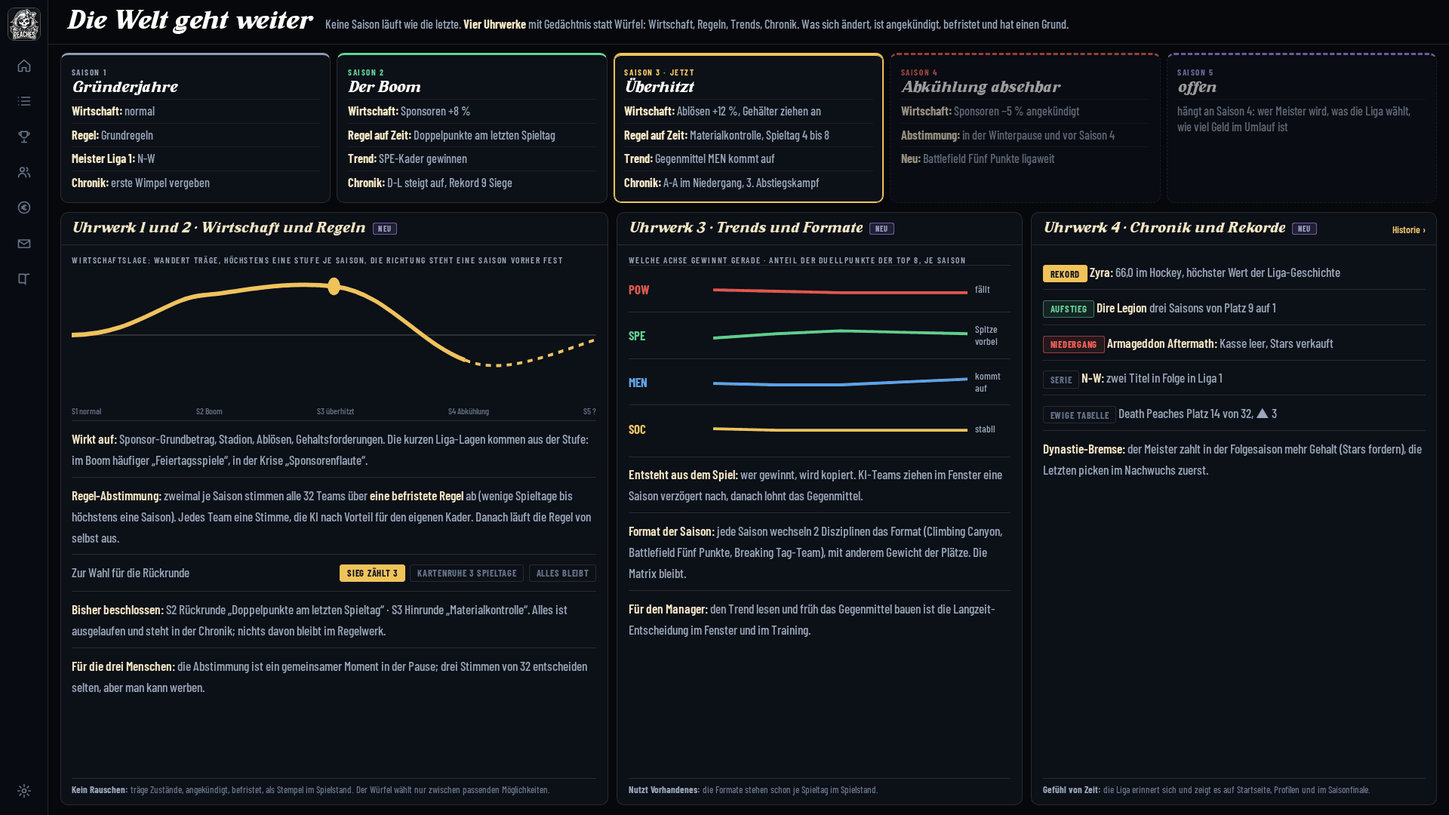
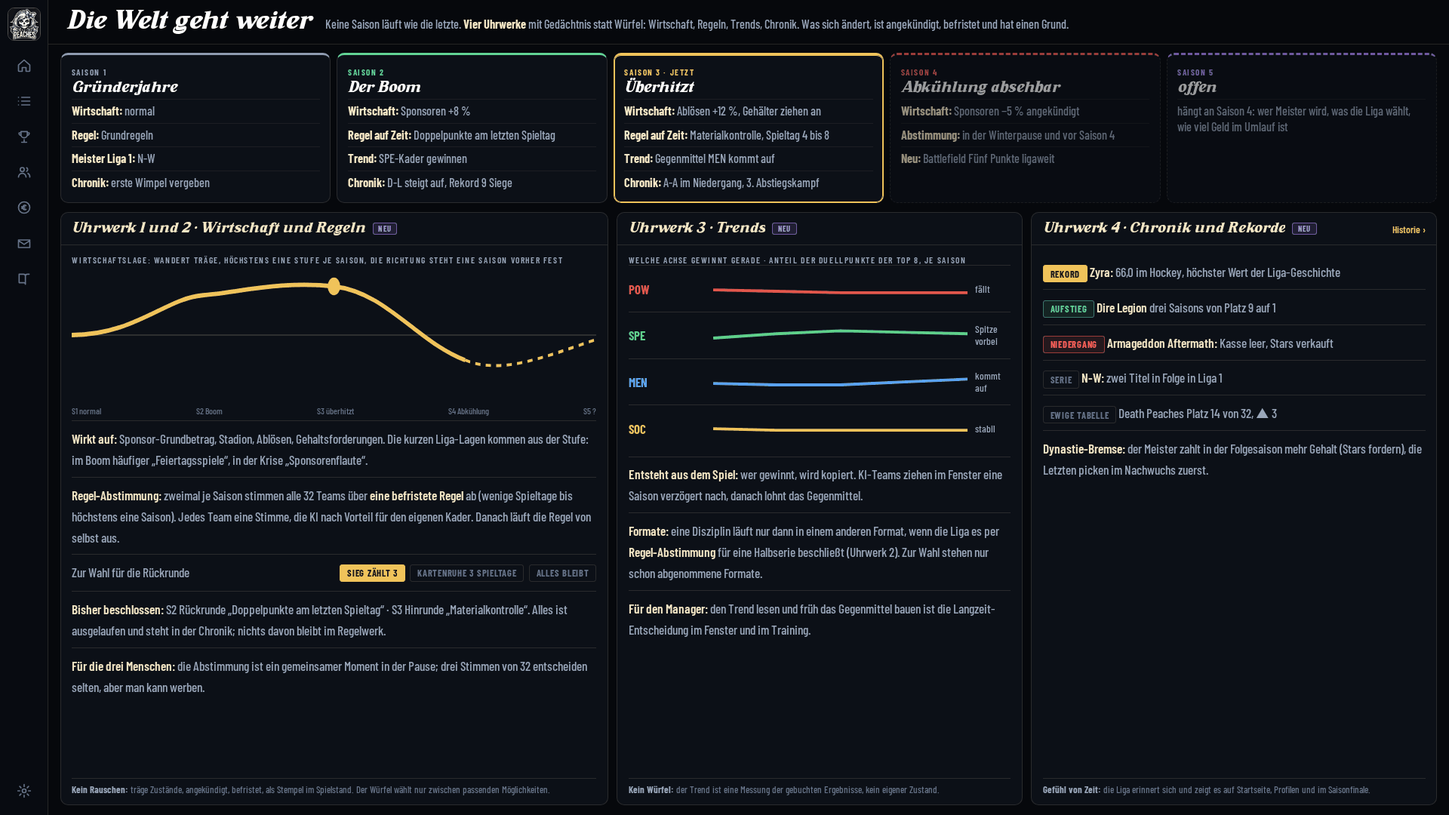
Rahmenkonzept Runde 5: Kabine und Moral, Rahmen-Uebersicht nachgezogen, Klicks geprueft (22.11.)
Claude-Session: https://claude.ai/code/session_01UYLNtXkprKr1XK4c3X2xQq

Changed region(s): [[0.4375, 0.6417, 0.6875, 0.7333], [0.4375, 0.9472, 0.625, 0.9778], [0.5312, 0.275, 0.625, 0.3056]]

diff --git a/public/mockups/zwischen-den-spieltagen-22-11.html b/public/mockups/zwischen-den-spieltagen-22-11.html
@@ -369,6 +369,21 @@ main{display:grid;grid-template-rows:auto minmax(0,1fr);min-width:0;min-height:0
 .absch div em{font-style:normal;font-size:.68rem;letter-spacing:.12em;text-transform:uppercase;font-weight:700;color:var(--gold);display:block}
 .ueb{display:grid;grid-template-columns:6.6rem repeat(3,minmax(0,1fr));gap:.3rem .5rem;font-size:.86rem;color:var(--leise);line-height:1.2;flex:1;min-height:0;grid-auto-rows:minmax(0,1fr);align-items:center}
 .ueb .kh{font-size:.68rem;letter-spacing:.1em;text-transform:uppercase;font-weight:700;color:var(--gold)} .ueb b{color:var(--creme)}
+
+/* ============ RUNDE 5: KABINE ============ */
+.kb{display:grid;grid-template-columns:minmax(0,1.25fr) minmax(0,1.1fr) 29rem;gap:.72rem;padding:.7rem 1rem .8rem;min-height:0}
+.mz2{display:grid;grid-template-columns:2rem 8.6rem 4.4rem minmax(0,1fr) 3.6rem;gap:.6rem;align-items:center;flex:1;min-height:0;border-top:1px solid rgba(244,230,196,.07);font-size:.94rem;color:var(--leise)}
+.mz2.kopf{flex:none;border-top:0;font-size:.66rem;letter-spacing:.1em;text-transform:uppercase;color:var(--stumm);font-weight:700}
+.mz2 b{font:400 1.05rem/1 var(--haus);color:#fff;white-space:nowrap;overflow:hidden;text-overflow:ellipsis} .mz2 .mo{display:flex;align-items:center;gap:.35rem;font-weight:700;font-size:1.15rem}
+.mz2 svg.gs{width:1.5rem;height:1.5rem;flex:none} .mz2 svg.sp{width:100%;height:1.7rem} .mz2 .gr{display:block;font-size:.78rem;color:var(--stumm);white-space:nowrap;overflow:hidden;text-overflow:ellipsis}
+.mz2 .wi{text-align:right;font-weight:700;font-variant-numeric:tabular-nums}
+.paar{display:flex;align-items:center;gap:.5rem;padding:.4rem 0;border-top:1px solid var(--linie);font-size:.94rem;color:var(--leise)} .paar:first-of-type{border-top:0} .paar b{color:var(--creme)} .paar .po{margin-right:-.6rem} .paar .po+.po{margin-right:.2rem}
+.ere{position:relative;flex:none;padding:.7rem .9rem;isolation:isolate;border-bottom:1px solid var(--linie)}
+.ere::before{content:"";position:absolute;inset:0;z-index:-1;background:linear-gradient(90deg,rgba(243,181,74,.2),transparent 75%)}
+.ere h3{margin:.1rem 0 .15rem;font:400 1.6rem/1 var(--haus);color:#fff} .ere p{font-size:.98rem;color:var(--leise);line-height:1.28} .ere p b{color:var(--creme)}
+.ere .duo{position:absolute;right:.9rem;top:.7rem;display:flex} .ere .duo img{width:3.4rem;height:3.4rem;border-radius:50%;object-fit:cover;object-position:center 15%;border:2px solid var(--acht);margin-left:-.8rem}
+.stimm{display:flex;align-items:center;gap:.8rem;margin-bottom:.4rem} .stimm strong{font-size:3rem;line-height:1;color:var(--creme)} .stimm svg{width:3.4rem;height:3.4rem} .stimm small{font-size:.86rem;color:var(--leise);line-height:1.25}
+.rate{display:grid;grid-template-columns:minmax(0,1fr) auto;gap:.1rem .6rem;font-size:.92rem;color:var(--leise);line-height:1.5} .rate b{text-align:right;font-variant-numeric:tabular-nums}
 </style>
 </head>
 <body>
@@ -387,7 +402,7 @@ function lg(c,k){return '<img class="'+(k||"lg")+'" src="../team-logos/'+c+'.jpg
 function po(s){return '<img class="po" src="../portraits/'+s+'.jpg" alt="">'}
 function kul(d,b){return "../sprites/kulissen/"+d+"/"+b+".jpg"}
 $("rail").innerHTML='<span class="logo"><img src="../team-logos/D-P.jpg" alt=""></span>'+[["haus",A==="woche"],["liste"],["pokal",A==="liga"||A==="lage"],["leute",A==="ausruestung"],["geld"],["post"],["buch",A==="rahmen"]].map(function(r){return '<a class="'+(r[1]?"an":"")+'">'+ic(I[r[0]])+'</a>'}).join("")+'<span class="luecke"></span><a>'+ic(I.zahn)+'</a>';
-$("demoz").innerHTML=[["rahmen","Rahmen"],["nachspiel","Nach dem Spiel"],["woche","Die Woche"],["ausruestung","Ausrüstung"],["kiste","Kiste öffnen"],["zuruf","Zuruf im Spiel"],["lage","Liga-Lage"],["verein","Verein"],["welt","Welt"],["aera","Kader und Ära"],["liga","Ligaformat"]].map(function(z){return '<a class="'+(z[0]===A?"an":"")+'" href="?ansicht='+z[0]+'">'+z[1]+'</a>'}).join("");
+$("demoz").innerHTML=[["rahmen","Rahmen"],["nachspiel","Nach dem Spiel"],["woche","Die Woche"],["ausruestung","Ausrüstung"],["kiste","Kiste öffnen"],["zuruf","Zuruf im Spiel"],["lage","Liga-Lage"],["kabine","Kabine"],["verein","Verein"],["welt","Welt"],["aera","Kader und Ära"],["liga","Ligaformat"]].map(function(z){return '<a class="'+(z[0]===A?"an":"")+'" href="?ansicht='+z[0]+'">'+z[1]+'</a>'}).join("");
 function hero(o){return '<header class="hero"><div class="kul"><i style="background-image:url('+o.kul[0]+')"></i><i style="background-image:url('+o.kul[1]+')"></i></div><div class="hk"><span class="crest">'+lg("D-P","")+'</span><div><em>'+o.kick+'</em><h1>'+o.titel+'</h1><span class="lage">'+o.lage+'</span></div></div><div class="kpis">'+o.kpi.map(function(k){return '<div class="kpi"><strong class="t">'+k[0]+'</strong><small>'+k[1]+'</small></div>'}).join("")+'</div><div class="cta"><a class="btn haupt">'+o.cta[0]+' '+ic(I.pfeil)+'</a><small>'+o.cta[1]+'</small></div></header>'}
 function pan(st,tit,inh,re,alt){return '<section class="pan" style="'+st+'"><div class="pk"><h2>'+tit+'</h2>'+(alt?"":'<span class="neu">neu</span>')+'<span class="sp"></span>'+(re||"")+'</div><div class="pb">'+inh+'</div></section>'}
 var SF=["var(--s0)","var(--s1)","var(--s2)","var(--s3)"],SN=["Standard","Selten","Episch","Legendär"];
@@ -396,19 +411,19 @@ function hb(pz,text){var f=pz>50?"var(--gut)":pz>25?"var(--acht)":"var(--warn)";
 
 /* ======================= RAHMEN ======================= */
 function rahmen(){
- var S=[["#62d394","10 bis 15 Minuten · 20-mal je Saison","Der Spieltag","Wie gewinne ich heute?","Platz, Einsatzstufe, zwei Formkarten, Captain","Arena, Ergebnis 7 : 4, <b>Deine Entscheidungen</b>","Punkte, PP, <b>Ruhm</b>","stark gerechnet, Rückmeldung fehlt"],
-  ["#45B0C9","5 Minuten · 19-mal je Saison","Die Woche","Was mache ich aus dem, was passiert ist?","<b>ein Zug</b>: Karte, Ausrüstung, Reaktion auf die Liga-Lage; dazu Training, Scouting","Kader-Zustand, Kasse je Spieltag, <b>Liga-Lage</b>","frische Kräfte, <b>Beute</b>, Vorteil am nächsten Spieltag","heute eine Prüfliste, kein Ort"],
+ var S=[["#62d394","10 bis 15 Minuten · 20-mal je Saison","Der Spieltag","Wie gewinne ich heute?","Platz, Einsatzstufe, zwei Formkarten, Captain, <b>Spielplan mit Zuruf</b>","Arena, <b>die Sendung</b>, <b>Deine Entscheidungen</b>","Punkte, PP, <b>Ruhm</b>","stark gerechnet, Rückmeldung fehlt"],
+  ["#45B0C9","5 Minuten · 19-mal je Saison","Die Woche","Was mache ich aus dem, was passiert ist?","<b>ein Zug</b>: Karte, Ausrüstung, Antwort auf Liga-Lage und <b>Kabine</b>; dazu Training, Scouting","Kader-Zustand, Kasse je Spieltag, <b>Liga-Lage</b>","frische Kräfte, <b>Beute</b>, Vorteil am nächsten Spieltag","heute eine Prüfliste, kein Ort"],
   ["#f0c35a","20 Spieltage in zwei Hälften","Die Saison","Erreiche ich mein Ziel?","Kartenhaushalt, Rotation bis zur Pause, Geld gegen Vorstand und Sponsor","<b>Rennen</b>, <b>Halbzeitbericht</b>, Vorstand","Aufstieg, Titel, Prämien, <b>Wimpel</b>, <b>Finale als Sendung</b>","Bausteine da, Momente fehlen"],
-  ["#ff8f6b","mehrere Saisons","Die Ära","Was für ein Verein werde ich?","Kaderprofil, Gebäude, Verträge, <b>Nachwuchs</b>, <b>Spielweise</b>","Historie, <b>Rekorde</b>, <b>Rivalitäten</b>","<b>Legenden</b>, Trophäenschrank, eine Geschichte","ab Saison 3 erstarrt die Liga"]];
+  ["#ff8f6b","mehrere Saisons","Die Ära","Was für ein Verein werde ich?","Kaderprofil, Gebäude, Verträge, <b>Potential mit Grund</b>, <b>Nachwuchs</b>","Historie, <b>Rekorde</b>, <b>Rivalitäten</b>","<b>Legenden</b>, Trophäenschrank, eine Geschichte","ab Saison 3 erstarrt die Liga"]];
  var schl=S.map(function(s,i){return '<div class="schl" style="--f:'+s[0]+'"><em>Schleife '+(i+1)+' · '+s[1]+'</em><h3>'+s[2]+'</h3><div class="fr">„'+s[3]+'“</div><dl><dt>Entscheiden</dt><dd>'+s[4]+'</dd><dt>Erfahren</dt><dd>'+s[5]+'</dd><dt>Bekommen</dt><dd>'+s[6]+'</dd><dt>Heute</dt><dd style="color:var(--acht)">'+s[7]+'</dd></dl></div>'}).join("");
- var P=[["var(--spe)","Säule 1","Kader",85,"Wen habe ich, und was wird aus ihm?","<b>Trägt:</b> Draft, Fenster, Training mit Weg, Scouting-Nebel, Verträge, Belastung.","<b>Fehlt:</b> Zugang und Abgang über die Saisons. Ohne Alter nähert sich jeder seiner Decke.",[[5,"Nachwuchs und Abgang","L"],[3,"Ausrüstung am Spieler","L"]]],
-  ["var(--pow)","Säule 2","Spieltag",70,"Wie setze ich ihn ein?","<b>Trägt:</b> Einsatzliste, Formkarten als Haushalt, Einsatzstufe, Captain, 20 verschiedene Disziplinen.","<b>Fehlt:</b> die Rückmeldung nach dem Spiel und eine eigene Handschrift. „Optimieren“ findet heute die Antwort.",[[1,"Deine Entscheidungen","M"],[4,"Spielweisen","L"],[4,"Aktionskarten","M"]]],
-  ["var(--soc)","Säule 3","Verein",65,"Womit bezahle ich das?","<b>Trägt:</b> zwei Töpfe, Vorstand mit Freigabe, Sponsor, Gebäude, Finanzen je Spieltag.","<b>Fehlt:</b> Geldentscheidungen in der Saison mit sportlicher Folge. Gebäude haben keinen spürbaren Zweck.",[[2,"Die Woche als Ort","M"],[3,"Ruhm und Kisten","M"],[1,"Ziele: auf Kurs, gefährdet","S"]]],
-  ["var(--men)","Säule 4","Welt",25,"Was passiert um mich herum?","<b>Trägt:</b> zwei Ligen, Auf- und Abstieg, Pause nach Spieltag 10.","<b>Fehlt:</b> fast alles. Jede Saison läuft gleich, die Liga reagiert nicht, Höhepunkte sind Buchungsknöpfe.",[[1,"Rennen und Halbzeitbericht","M"],[2,"Liga-Lage (für alle 32)","M"],[2,"Wimpel und Rekorde","S"],[5,"Saisonfinale als Sendung","M"]]],
+ var P=[["var(--spe)","Säule 1","Kader",85,"Wen habe ich, und was wird aus ihm?","<b>Trägt:</b> Draft, Fenster, Training mit Weg, Scouting-Nebel, Verträge, Belastung.","<b>Fehlt:</b> Entwicklung ist nicht geeicht und nicht sichtbar, die Liga legt im Schnitt zu. Zugang und Abgang kommen später.",[[2,"Potential, das wandert (B15)","M"],[3,"Ausrüstung hebt Attribute","L"],[5,"Nachwuchs und Abgang","L"]]],
+  ["var(--pow)","Säule 2","Spieltag",70,"Wie setze ich ihn ein?","<b>Trägt:</b> Einsatzliste, Formkarten als Haushalt, Einsatzstufe, Captain, 20 verschiedene Disziplinen.","<b>Fehlt:</b> die Rückmeldung nach dem Spiel und eine eigene Handschrift. „Optimieren“ findet heute die Antwort.",[[1,"Sendung und Entscheidungen","M"],[4,"Zuruf im Spiel (B16)","L"],[4,"Aktionskarten","M"]]],
+  ["var(--soc)","Säule 3","Verein",65,"Womit bezahle ich das?","<b>Trägt:</b> zwei Töpfe, Vorstand mit Freigabe, Sponsor, Gebäude, Finanzen je Spieltag.","<b>Fehlt:</b> Geldentscheidungen in der Saison mit sportlicher Folge. Gebäude haben keinen spürbaren Zweck.",[[2,"Die Woche als Ort","M"],[2,"Kabine und Moral (B18)","M"],[3,"Ruhm, Kisten, Händler","M"]]],
+  ["var(--men)","Säule 4","Welt",25,"Was passiert um mich herum?","<b>Trägt:</b> zwei Ligen, Auf- und Abstieg, Pause nach Spieltag 10.","<b>Fehlt:</b> fast alles. Jede Saison läuft gleich, die Liga reagiert nicht, Höhepunkte sind Buchungsknöpfe.",[[1,"Rennen und Halbzeitbericht","M"],[2,"Liga-Lage (für alle 32)","M"],[3,"Regel-Abstimmung auf Zeit (B17)","M"],[5,"Chronik, Wimpel, Saisonfinale","M"]]],
   ["var(--neu)","Säule 5","Rivalen",15,"Gegen wen, und mit wem?","<b>Trägt:</b> Delegation, drei Logins, Beziehungen zwischen Teams als Daten (<span class='t'>lib/rivalries</span>).","<b>Fehlt:</b> Vergleich, Derby, gemeinsame Momente. Drei Menschen spielen nebeneinander.",[[1,"Manager-Leiste und Derby","S"],[2,"Rivalitäten und Erzfeind","S"],[5,"Legenden","S"]]]];
  var sae=P.map(function(p){return '<div class="saeu" style="--f:'+p[0]+'"><header><small>'+p[1]+'</small><h3>'+p[2]+'</h3><div class="st"><span>heute</span><span class="balk"><i style="width:'+p[3]+'%;background:'+p[0]+'"></i></span><span class="t">'+p[3]+' %</span></div></header><div class="in"><p style="color:var(--creme);font-weight:600">„'+p[4]+'“</p><p>'+p[5]+'</p><p>'+p[6]+'</p><div class="bs"><span class="gk">Bausteine · Welle · Aufwand</span>'+p[7].map(function(b){return '<div class="bst w'+b[0]+'"><i>W'+b[0]+'</i><span>'+b[1]+'</span><small>'+b[2]+'</small></div>'}).join("")+'</div></div></div>'}).join("");
- var W=[["Welle 1","Verstehen und vergleichen","<b>Deine Entscheidungen, Rennen, Halbzeit, Manager-Leiste, Derby.</b> Reine Anzeige, kein Risiko. Macht alles Vorhandene spürbar."],["Welle 2","Die Woche und die Welt","<b>Die Zwischenphase wird ein Ort, die Liga-Lage trifft alle 32.</b> Dazu Rivalitäten und Wimpel. Keine Wertung berührt."],["Welle 3","Beute","<b>Ausrüstung (Punkte on top), Ruhm, Kisten.</b> Greift in die Wertung: Messung, Review, neuer Fingerabdruck."],["Welle 4","Handschrift","<b>Aktionskarten und Spielweisen.</b> Der Manager bekommt einen eigenen Stil, die KI ebenso."],["Welle 5","Ära","<b>Saisonfinale als Sendung, Legenden, Nachwuchs, Ligaformat 2 × 20.</b> Hält fünf und mehr Saisons in Bewegung."]];
- return '<div class="kopfz"><h1>Der Rahmen: vier Schleifen, fünf Säulen</h1><span>Ausrüstung, Kisten, Karten und Ereignisse sind <b>Bausteine</b> darin, keine eigene Welt. Jeder Baustein muss zwei Säulen verbinden, sonst bleibt er eine Insel.</span></div>'
+ var W=[["Welle 1","Verstehen und vergleichen","<b>Deine Entscheidungen, Rennen, Halbzeit, Manager-Leiste, Derby.</b> Reine Anzeige, kein Risiko. Macht alles Vorhandene spürbar."],["Welle 2","Die Woche und die Welt","<b>Die Woche wird ein Ort, die Liga-Lage trifft alle 32.</b> Dazu Kabine und Moral, Potential mit Grund, Rivalitäten. Keine Mechanik berührt."],["Welle 3","Beute","<b>Ausrüstung (hebt Attribute), Ruhm, Kisten, Händler, Regel-Abstimmungen.</b> Wirkt on top: wird gezeigt und gemessen."],["Welle 4","Handschrift","<b>Aktionskarten und Zuruf im Spiel.</b> Drei Haltungen für alle zwanzig Disziplinen, als Spielplan vor dem Anpfiff."],["Welle 5","Ära","<b>Saisonfinale als Sendung, Legenden, Nachwuchs, Ligaformat 2 × 20.</b> Hält fünf und mehr Saisons in Bewegung."]];
+ return '<div class="kopfz"><h1>Der Rahmen: vier Schleifen, fünf Säulen</h1><span>Ausrüstung, Kisten, Karten, Ereignisse und Kabine sind <b>Bausteine</b> darin, keine eigene Welt. Jeder Baustein muss zwei Säulen verbinden, sonst bleibt er eine Insel.</span></div>'
  +'<div class="ra">'+schl+sae
  +'<div class="well">'+W.map(function(w,i){return '<div class="wk w'+(i+1)+'" style="display:flex;flex-direction:column"><em>'+w[0]+'</em><h4>'+w[1]+'</h4><p>'+w[2]+'</p><p style="margin-top:auto;padding-top:.4rem;border-top:1px solid var(--linie);color:var(--w)">'+["Spürbar ab dem ersten Spieltag.","Jede Saison läuft anders.","Der erste legendäre Fund.","Zwei Manager, zwei Stile.","Ein Verein mit Geschichte."][i]+'</p></div>'}).join("")+'</div>'
  +'<div class="kreis"><span class="gk">Der Kreislauf: sechs Mittel, jeder Baustein tauscht mindestens zwei</span><div class="rr"><div><b>Punkte</b>Tabelle, Rennen</div><div><b>Geld</b>zwei Töpfe</div><div><b>Kraft</b>Erschöpfung</div><div><b>Karten</b>Formkarten</div><div><b>Vertrauen</b>Vorstand</div><div class="n"><b>Ruhm</b>aus Leistung, kauft Beute</div></div><p><b>Beispiel Ausrüstung:</b> Ruhm (aus Punkten) wird Beute, Beute wird Punkte am Spieltag, Haltbarkeit kostet Geld oder Teile. <b>Beispiel Liga-Lage:</b> die Welt verschiebt Geld und Kraft für alle, jeder antwortet mit seinem Verein.</p></div>'
@@ -523,7 +538,7 @@ function welt(){
  return '<div class="kopfz"><h1>Die Welt geht weiter</h1><span>Keine Saison läuft wie die letzte. <b>Vier Uhrwerke</b> mit Gedächtnis statt Würfel: Wirtschaft, Regeln, Trends, Chronik. Was sich ändert, ist angekündigt, befristet und hat einen Grund.</span></div><div class="wl">'
  +'<div class="zeit">'+S.map(function(s){return '<div class="sai '+s[3]+'" style="--f:'+s[0]+'"><em>'+s[1]+'</em><h4>'+s[2]+'</h4><ul>'+s[4]+'</ul></div>'}).join("")+'</div>'
  +pan("","Uhrwerk 1 und 2 · Wirtschaft und Regeln",'<span class="gk">Wirtschaftslage: wandert träge, höchstens eine Stufe je Saison, die Richtung steht eine Saison vorher fest</span><svg viewBox="0 0 500 90" style="width:100%;height:11rem;margin:.3rem 0" preserveAspectRatio="none"><line x1="0" x2="500" y1="45" y2="45" stroke="rgba(244,230,196,.15)"/><path d="M0 45 C60 45 90 20 125 18 S200 8 250 12 S330 50 375 62" fill="none" stroke="#f0c35a" stroke-width="3"/><path d="M375 62 C410 72 450 60 500 48" fill="none" stroke="#f0c35a" stroke-width="2" stroke-dasharray="5 5"/><circle cx="250" cy="12" r="6" fill="#f0c35a"/></svg><div class="hax" style="margin-bottom:.4rem"><span>S1 normal</span><span>S2 Boom</span><span>S3 überhitzt</span><span>S4 Abkühlung</span><span>S5 ?</span></div><div class="z"><b>Wirkt auf:</b> Sponsor-Grundbetrag, Stadion, Ablösen, Gehaltsforderungen. Die kurzen Liga-Lagen kommen aus der Stufe: im Boom häufiger „Feiertagsspiele“, in der Krise „Sponsorenflaute“.</div><div class="z"><b>Regel-Abstimmung:</b> zweimal je Saison stimmen alle 32 Teams über <b>eine befristete Regel</b> ab (wenige Spieltage bis höchstens eine Saison). Jedes Team eine Stimme, die KI nach Vorteil für den eigenen Kader. Danach läuft die Regel von selbst aus.</div><div class="z">Zur Wahl für die Rückrunde<span class="re"><span class="chip d">Sieg zählt 3</span> <span class="chip s">Kartenruhe 3 Spieltage</span> <span class="chip s">alles bleibt</span></span></div><div class="z"><b>Bisher beschlossen:</b> S2 Rückrunde „Doppelpunkte am letzten Spieltag“ · S3 Hinrunde „Materialkontrolle“. Alles ist ausgelaufen und steht in der Chronik; nichts davon bleibt im Regelwerk.</div><div class="z"><b>Für die drei Menschen:</b> die Abstimmung ist ein gemeinsamer Moment in der Pause; drei Stimmen von 32 entscheiden selten, aber man kann werben.</div><div class="fz"><b>Kein Rauschen:</b> träge Zustände, angekündigt, befristet, als Stempel im Spielstand. Der Würfel wählt nur zwischen passenden Möglichkeiten.</div>')
- +pan("","Uhrwerk 3 · Trends und Formate",'<span class="gk">Welche Achse gewinnt gerade · Anteil der Duellpunkte der Top 8, je Saison</span>'+[["POW",[9,8,7,7,7],"var(--pow)","fällt"],["SPE",[8,11,13,12,11],"var(--spe)","Spitze vorbei"],["MEN",[9,8,8,10,12],"var(--men)","kommt auf"],["SOC",[10,9,9,9,9],"var(--soc)","stabil"]].map(function(t){return '<div class="trend"><b style="color:'+t[2]+'">'+t[0]+'</b>'+sp(t[1],t[2])+'<span style="font-size:.84rem">'+t[3]+'</span></div>'}).join("")+'<div class="z" style="margin-top:.4rem"><b>Entsteht aus dem Spiel:</b> wer gewinnt, wird kopiert. KI-Teams ziehen im Fenster eine Saison verzögert nach, danach lohnt das Gegenmittel.</div><div class="z"><b>Format der Saison:</b> jede Saison wechseln 2 Disziplinen das Format (Climbing Canyon, Battlefield Fünf Punkte, Breaking Tag-Team), mit anderem Gewicht der Plätze. Die Matrix bleibt.</div><div class="z"><b>Für den Manager:</b> den Trend lesen und früh das Gegenmittel bauen ist die Langzeit-Entscheidung im Fenster und im Training.</div><div class="fz"><b>Nutzt Vorhandenes:</b> die Formate stehen schon je Spieltag im Spielstand.</div>')
+ +pan("","Uhrwerk 3 · Trends",'<span class="gk">Welche Achse gewinnt gerade · Anteil der Duellpunkte der Top 8, je Saison</span>'+[["POW",[9,8,7,7,7],"var(--pow)","fällt"],["SPE",[8,11,13,12,11],"var(--spe)","Spitze vorbei"],["MEN",[9,8,8,10,12],"var(--men)","kommt auf"],["SOC",[10,9,9,9,9],"var(--soc)","stabil"]].map(function(t){return '<div class="trend"><b style="color:'+t[2]+'">'+t[0]+'</b>'+sp(t[1],t[2])+'<span style="font-size:.84rem">'+t[3]+'</span></div>'}).join("")+'<div class="z" style="margin-top:.4rem"><b>Entsteht aus dem Spiel:</b> wer gewinnt, wird kopiert. KI-Teams ziehen im Fenster eine Saison verzögert nach, danach lohnt das Gegenmittel.</div><div class="z"><b>Formate:</b> eine Disziplin läuft nur dann in einem anderen Format, wenn die Liga es per <b>Regel-Abstimmung</b> für eine Halbserie beschließt (Uhrwerk 2). Zur Wahl stehen nur schon abgenommene Formate.</div><div class="z"><b>Für den Manager:</b> den Trend lesen und früh das Gegenmittel bauen ist die Langzeit-Entscheidung im Fenster und im Training.</div><div class="fz"><b>Kein Würfel:</b> der Trend ist eine Messung der gebuchten Ergebnisse, kein eigener Zustand.</div>')
  +pan("","Uhrwerk 4 · Chronik und Rekorde",'<div class="z"><span class="chip d">Rekord</span> <b>Zyra:</b> 66,0 im Hockey, höchster Wert der Liga-Geschichte</div><div class="z"><span class="chip g">Aufstieg</span> <b>Dire Legion</b> drei Saisons von Platz 9 auf 1</div><div class="z"><span class="chip w">Niedergang</span> <b>Armageddon Aftermath:</b> Kasse leer, Stars verkauft</div><div class="z"><span class="chip s">Serie</span> <b>N-W:</b> zwei Titel in Folge in Liga 1</div><div class="z"><span class="chip s">Ewige Tabelle</span> Death Peaches Platz 14 von 32, ▲ 3</div><div class="z"><b>Dynastie-Bremse:</b> der Meister zahlt in der Folgesaison mehr Gehalt (Stars fordern), die Letzten picken im Nachwuchs zuerst.</div><div class="fz"><b>Gefühl von Zeit:</b> die Liga erinnert sich und zeigt es auf Startseite, Profilen und im Saisonfinale.</div>','<a>Historie ›</a>')
  +'</div>'}
 
@@ -553,17 +568,36 @@ function zuruf(){
  +pan("","Wirkung und Abnahme",'<div class="z"><b>Druck:</b> Streuung des Ergebnisses +15 %, Erschöpfung +10 %</div><div class="z"><b>Kontrolle:</b> Streuung −15 %, kein Preis</div><div class="z"><b>Kräfte sparen:</b> Leistung −2 %, Erschöpfung −20 %, Risiko −25 %</div><div class="fz"><b>Kein bester Knopf:</b> der Erwartungswert bleibt gleich, nur Streuung und Kraft verschieben sich. <b>Abnahme:</b> die Schranke 0,75 gilt für die Mechanik ohne Zuruf (Standard „Kontrolle ohne Regeln“). Mit Zuruf wird nur gemessen und gezeigt; eigene Fingerabdruck-Zeilen; gebucht wird mit dem Spielplan im Eingabe-Hash.</div>','<span class="re">Startwerte</span>')
  +'</div></div>'}
 
+/* ======================= RUNDE 5 · KABINE UND MORAL ======================= */
+function mFarbe(w){var R=[255,96,88],B=[243,181,74],G=[98,211,148],a=w<50?R:B,b=w<50?B:G,t=w<50?w/50:(w-50)/50;return "rgb("+[0,1,2].map(function(i){return Math.round(a[i]+(b[i]-a[i])*t)}).join(",")+")"}
+function gesicht(w,kl){var f=mFarbe(w),k=(w-50)/50*5;return '<svg class="'+(kl||"gs")+'" viewBox="0 0 24 24"><circle cx="12" cy="12" r="10" fill="none" stroke="'+f+'" stroke-width="2"/><circle cx="8.5" cy="10" r="1.3" fill="'+f+'"/><circle cx="15.5" cy="10" r="1.3" fill="'+f+'"/><path d="M7.5 15.5 Q12 '+(15.5+k)+' 16.500 15.5" fill="none" stroke="'+f+'" stroke-width="2" stroke-linecap="round"/></svg>'}
+function kabine(){
+ var M=[["zyra","Zyra",81,[60,62,66,70,68,74,78,81],"beste des Spieltags, Captain"],["conan","Conan",77,[58,60,63,66,70,72,75,77],"drei Siege am Brett, Freund von Zynara"],["queen-loriana","Queen Loriana",70,[72,71,70,69,70,71,70,70],"Stammspielerin, ruhig"],["amarie","Amarie",63,[66,68,70,69,66,64,62,63],"Platzhirsch-Konflikt mit Zyra"],["zynara","Zynara",61,[55,56,58,59,60,60,61,61],"Schützling von Conan"],["lilithara","Lilithara",52,[58,57,55,56,54,53,52,52],"geschont, verlor auf Zeit"],["aeon-flux","Aeon Flux",49,[50,52,51,50,48,50,49,49],"neutral"],["maru","Maru",44,[60,58,55,52,50,48,46,44],"zweimal unter Erwartung"],["brightpaw","Brightpaw",41,[55,54,52,50,49,47,45,41],"verletzt, fehlt an Spieltag 13"],["emilia","Emilia",34,[62,58,54,50,46,42,38,34],"fünf Spieltage Bank, Freundin Kati verkauft"]];
+ function spark(a,w){return '<svg class="sp" viewBox="0 0 70 20" preserveAspectRatio="none"><line x1="0" x2="70" y1="10" y2="10" stroke="rgba(244,230,196,.12)"/><polyline fill="none" stroke="'+mFarbe(w)+'" stroke-width="2" points="'+a.map(function(v,i){return i*10+","+(19-(v-30)/55*18)}).join(" ")+'"/></svg>'}
+ var AW=[["Zyra den Rücken stärken","Sie bleibt Captain und erste Wahl.",["Zyra <b class='plus'>+6</b> · Amarie <b class='minus'>−10</b>","Amarie fordert bei −40 den Wechsel"],"KI: Ehrgeiz hoch"],["Aussprache ansetzen","Beide an einen Tisch, das kostet eine Trainingseinheit.",["beide <b class='plus'>+3</b> · Training dieser Woche <b class='minus'>−50 %</b>","Konflikt ruht bis zur Winterpause"],"KI: Harmonie ab 6"],["Laufen lassen","Die beiden regeln das unter sich.",["beide <b class='minus'>−2</b> je Spieltag, solange beide spielen","30 %: wird zur Rivalität · 70 %: legt sich nach 3 Spieltagen"],"KI: Harmonie unter 4"]];
+ return hero({kul:[kul("showcase","buehne"),kul("tennis","court")],kick:"Kader · Kabine · vor Spieltag 13",titel:"Die Kabine",lage:"<b>Moral schwankt spürbar und wirkt mit bis zu ±2,5 %.</b> Wer spielt, gewinnt und Freunde hat, ist gut drauf · wer auf der Bank sitzt, nicht",
+   kpi:[["64","Kabinen-Stimmung"],["<span class='plus'>+0,7 %</span>","Wirkung im Team heute"],["3","Beziehungen"],["1","Ereignis offen"]],cta:["Antwort bestätigen","Aussprache gewählt"]})
+ +'<div class="kb">'
+ +pan("","Moral je Spieler",'<div class="mz2 kopf"><span></span><span>Spieler</span><span>Moral</span><span>Verlauf, letzte 8 Spieltage · Grund</span><span style="text-align:right">Wirkung</span></div>'+M.map(function(m){var wi=(m[2]-50)/50*2.5;return '<div class="mz2">'+po(m[0])+'<b>'+m[1]+'</b><span class="mo t" style="color:'+mFarbe(m[2])+'">'+gesicht(m[2])+m[2]+'</span><span>'+spark(m[3],m[2])+'<span class="gr">'+m[4]+'</span></span><span class="wi '+(wi>0.3?"plus":wi<-0.3?"minus":"null")+'">'+(wi>0?"+":wi<0?"−":"±")+Math.abs(wi).toFixed(1).replace(".",",")+' %</span></div>'}).join("")+'<div class="fz"><b>Wirkung:</b> (Moral − 50) ÷ 50 × 2,5 % auf die Eignung, on top. Heute sind es höchstens ±0,7 %. Gesicht in Farbe plus Zahl, wie überall in der App.</div>','<span class="re">sortierbar</span>')
+ +'<section class="pan"><div class="pk"><h2>Kabinen-Ereignis</h2><span class="neu">neu</span><span class="sp"></span><span class="re">2 je Halbserie, für jedes Team gleich viele</span></div><div class="ere"><span class="duo"><img src="../portraits/zyra.jpg" alt=""><img src="../portraits/amarie.jpg" alt=""></span><span class="gk" style="color:var(--acht)">Platzhirsch · nur dein Team · Auslöser aus dem Spielstand</span><h3>Zyra oder Amarie?</h3><p style="max-width:78%">Zwei Charger, ein Captain-Platz. Seit <b>vier Spieltagen</b> trägt Zyra die Binde, Amarie war zweimal die Bessere. Sie will wissen, woran sie ist.</p></div><div class="pb"><div class="antw" id="kantw" style="flex:1;min-height:0">'+AW.map(function(a,i){return '<div class="an3'+(i===1?" gew":"")+'"><b>'+a[0]+'</b><p>'+a[1]+'</p><ul>'+a[2].map(function(x){return '<li>'+x+'</li>'}).join("")+'</ul><span class="ki">'+a[3]+'</span></div>'}).join("")+'</div><span class="gk" style="margin-top:.6rem">Beziehungen in der Kabine</span><div class="paar">'+po("conan")+po("zynara")+'<b>Mentor und Schützling</b> · gemeinsam aufgestellt: Zynara trainiert +10 %<span style="margin-left:auto" class="chip g">gut</span></div><div class="paar">'+po("zyra")+po("amarie")+'<b>Platzhirsche</b> · offen, siehe oben<span style="margin-left:auto" class="chip a">offen</span></div><div class="paar">'+po("emilia")+po("lilithara")+'<b>Freundinnen</b> · wird eine verkauft, verliert die andere 10<span style="margin-left:auto" class="chip g">gut</span></div></div></section>'
+ +'<div style="display:grid;grid-template-rows:minmax(0,1.15fr) minmax(0,1fr);gap:.72rem;min-height:0">'
+ +pan("","Kabinen-Stimmung",'<div class="stimm">'+gesicht(64,"")+'<strong class="t" style="color:'+mFarbe(64)+'">64</strong><small>Mittel der Moral 57<br>+ Zusammenhalt 7 (Beziehungen, Serie)</small></div><span class="gk">Was Moral bewegt · je Spieltag</span><div class="rate"><span>Einsatz und Sieg</span><b class="plus">+3</b><span>beste oder bester des Spieltags</span><b class="plus">+5</b><span>Einsatz und Niederlage</span><b class="minus">−2</b><span>einsatzfähig auf der Bank</span><b class="minus">−3</b><span>ab dem dritten Mal Bank in Folge</span><b class="minus">−5</b><span>Serie: drei Siege / drei Niederlagen (alle)</span><b>±4</b><span>Freund verkauft · Vertrag verlängert</span><b>−10 · +8</b><span>Rückkehr zur Mitte</span><b>10 % des Abstands</b></div><div class="fz">Schnelle Ausschläge, langsame Rückkehr. Bei Stimmung unter 40 steigt die Wahrscheinlichkeit für Streit, über 75 für eine Feier.</div>','<span class="re">Startwerte</span>')
+ +pan("","Für die Moral",[["trikot",1,"Glücksbringer","Ausrüstung, Körper · Moral des Trägers fällt nicht unter 40","im Lager"],["riegel",0,"Teamabend","Verbrauch · alle +6 Moral, einmal","Wirtin 1,2 C"],["schuh",2,"Mannschaftsfahrt","Verbrauch, nur Winterpause · alle +10, ein Streit endet","Markt 3,5 C"]].map(function(g){return '<div class="ang">'+gi(g[0],g[1])+'<span><b>'+g[2]+'</b>'+g[3]+'</span><span class="pr t" style="font-size:.9rem">'+g[4]+'</span></div>'}).join("")+'<div class="fz">Liegen im selben Lager wie die Ausrüstung und kommen von Händlern, aus Kisten und als Aktionskarte.</div>','<a href="?ansicht=ausruestung">Lager ›</a>')
+ +'</div></div>'}
+
 function kisteLauf(){var b=$("buehne");if(!b)return;var ph=$("ph").children,fix=q.get("phase");
  function setz(n){b.className="buehne p"+n+(fix==="3"?" still3":"");for(var i=0;i<3;i++)ph[i].className=i===n-1?"an":""}
  if(fix){setz(+fix);return}
  setz(1);setTimeout(function(){setz(2)},1200);setTimeout(function(){setz(3)},2000)}
-$("main").innerHTML=({rahmen:rahmen,woche:woche,ausruestung:ausruestung,lage:lage,liga:liga,nachspiel:nachspiel,aera:aera,verein:verein,welt:welt,kiste:kisteA,zuruf:zuruf}[A]||rahmen)();
+$("main").innerHTML=({rahmen:rahmen,woche:woche,ausruestung:ausruestung,lage:lage,liga:liga,nachspiel:nachspiel,aera:aera,verein:verein,welt:welt,kiste:kisteA,zuruf:zuruf,kabine:kabine}[A]||rahmen)();
 kisteLauf();
 /* Klick-Verhalten der Beispiele */
 var HT=["<b>Eisbad</b> für Zyra, Amarie, Maru: 68 → 56, 66 → 54, 51 → 39","<b>Sondereinheit</b> für Conan: Speed-Schach-Weg +0,4 statt +0,2, Erschöpfung 22 → 28","<b>Fan-Tag:</b> Spieltag 13 ist ein Heimspiel, Stadion 0,6 → 0,75 C, Moral 64 → 67"];
 document.addEventListener("click",function(e){
  if(e.target.closest("#nochmal")){kisteLauf();return}
  var fk=e.target.closest(".fk");if(fk){document.querySelectorAll(".fk").forEach(function(x){x.classList.remove("gew");x.classList.add("weg")});fk.classList.remove("weg");fk.classList.add("gew");return}
+ var a2=e.target.closest(".akk");if(a2){document.querySelectorAll(".akk").forEach(function(x){x.classList.remove("gew")});a2.classList.add("gew");return}
+ var hs=e.target.closest(".halt span");if(hs){hs.parentNode.querySelectorAll("span").forEach(function(x){x.classList.remove("an")});hs.classList.add("an");return}
  var a=e.target.closest(".ak");if(a){document.querySelectorAll(".ak").forEach(function(x){x.classList.remove("gew")});a.classList.add("gew");$("handtext").innerHTML=HT[+a.dataset.i];return}
  var b=e.target.closest(".an3");if(b){document.querySelectorAll(".an3").forEach(function(x){x.classList.remove("gew")});b.classList.add("gew");return}
  var k=e.target.closest(".wahl");if(k){document.querySelectorAll(".wahl").forEach(function(x){x.classList.remove("gew");x.classList.add("weg");x.querySelector(".chip").className="chip s";x.querySelector(".chip").textContent="→ Teile"});k.classList.remove("weg");k.classList.add("gew");k.querySelector(".chip").className="chip d";k.querySelector(".chip").textContent="genommen";return}

diff --git a/docs/design/zwischen-den-spieltagen-22-11.md b/docs/design/zwischen-den-spieltagen-22-11.md
@@ -816,3 +816,119 @@ Auswertung im Messskript). Die Skala der PP (bester Spieler um 5 je Disziplin) b
 
 **Offen bleiben** die fünf Fragen aus Abschnitt 18 und aus Abschnitt 13 die Fragen 1 (Korridor des Liga-Mittels), 3
 (Identität), 4 (Personal) und 5 (Stilprobe Kiste).
+
+---
+
+# Runde 5 (22.11.): Kabine und Moral, Nachträge
+
+## 23. Baustein B18: Kabine und Moral
+
+Chris: „moral soll sich stärker ändern oder schwanken, oder es gibt events zwischen spielern in den teams die sich positiv
+oder negativ auswirken können, oder items dafür die man nutzen kann etc“. Ausgangslage: Moral wirkt heute höchstens
+±0,67 % auf die Eignung und bewegt sich träge (`docs/design/form-moral-17-11.md`). Mockup `?ansicht=kabine`.
+
+### (a) Stärkere Schwankung
+
+- **Dosis:** `Wirkung = (Moral − 50) ÷ 50 × 2,5 %` auf die Eignung, also **±2,5 %** an den Rändern statt ±0,67 %. Das ist ein
+  On-top-Effekt und zählt nicht gegen die Schranke 0,75 (Abschnitt 20). Er steht als Zeile in der Einsatzliste und in
+  „Deine Entscheidungen“, für beide Seiten.
+- **Änderung je Spieltag (Startwerte):**
+
+  | Anlass | Moral |
+  |---|---:|
+  | Einsatz und Sieg | +3 |
+  | beste oder bester des Spieltags | +5 |
+  | Einsatz und Niederlage | −2 |
+  | einsatzfähig auf der Bank | −3 |
+  | ab dem dritten Mal Bank in Folge | −5 |
+  | Serie: drei Siege / drei Niederlagen (ganzes Team) | +4 / −4 |
+  | Derby-Sieg (ganzes Team) | +5 |
+  | Freund oder Freundin verkauft (einmalig) | −10 |
+  | Vertrag verlängert (einmalig) | +8 |
+  | Rückkehr zur Mitte | 10 % des Abstands zu 50 |
+
+  Schnelle Ausschläge, langsame Rückkehr: nach fünf Spieltagen Bank steht ein Spieler um 34 statt um 47. Ein verletzter
+  Spieler verliert keine Moral für die Bank.
+- **Zielbild für die Eichung** (Saison mit 32 KI-Teams): Streuung der Moral in der Liga etwa 15 Punkte; je Spieltag liegen
+  10–15 % der Kaderspieler unter 40 und 10–15 % über 70; ein Stammspieler schwankt über eine Halbserie um mindestens 12
+  Punkte. Die Team-Wirkung am Spieltag liegt meist zwischen −1 % und +1 %, in Extremfällen bei ±2 %.
+- **Kabinen-Stimmung** je Team = Mittel der Moral + Zusammenhalt (Beziehungen und Serie, −10 bis +10). Sie steuert, welche
+  Kabinen-Ereignisse anstehen, und färbt Fans und Vorstand.
+
+### (b) Kabinen-Ereignisse im eigenen Team
+
+Im Unterschied zu den ligaweiten Lagen betreffen sie nur das eigene Team. Deshalb gilt:
+
+- **Gleiche Häufigkeit für alle:** jedes Team bekommt genau **zwei je Halbserie**, an Spieltagen aus der Saat des
+  Spielstands. Niemand hat mehr Pech oder Glück als ein anderer.
+- **Auslöser aus dem Spielstand:** an einem Ereignis-Spieltag werden alle Typen geprüft, deren Bedingung erfüllt ist; der
+  mit der stärksten Bedingung gewinnt, der Zufall entscheidet nur bei Gleichstand. Ist nichts erfüllt, gibt es „Ruhige
+  Woche“ (kleiner Bonus), damit die Zahl gleich bleibt.
+
+| Ereignis | Auslöser | Antworten (je 2–3, feste sichtbare Folgen) |
+|---|---|---|
+| **Platzhirsch** | zwei Spieler derselben Klasse unter den besten drei, einer ist Captain | einen stützen (+6 / −10) · Aussprache (beide +3, Training der Woche halb) · laufen lassen (beide −2 je Spieltag, kann Rivalität werden) |
+| **Streit** | zwei Spieler auf demselben Platz, einer dreimal Bank; Stimmung unter 40 | schlichten (kostet eine Aktionskarte) · Partei ergreifen · Geldstrafe geht nicht: der Vorstand straft nie, also „Sondertraining für beide“ (Erschöpfung +6) |
+| **Freundschaft** | zwei Spieler fünfmal gemeinsam eingesetzt und gewonnen | fördern (Beziehung entsteht: gemeinsam aufgestellt je +1 Moral) · nichts tun |
+| **Mentor und Schützling** | starker Spieler und einer mit großem Abstand zum Potential, gleiche Klasse oder Achse | zusammenspannen (Schützling trainiert +10 %, Mentor −1 Erholung) · getrennt lassen |
+| **Heimweh** | neu verpflichtet, in den ersten fünf Spieltagen höchstens ein Einsatz | Einsatz zusagen (bindet einen Platz am nächsten Spieltag, +8) · Gespräch (+3) · abwarten (−4) |
+| **Feier** | drei Siege in Folge, Derby-Sieg oder Wimpel; Stimmung über 75 | feiern lassen (alle +5, Erschöpfung +3) · Fokus halten (Captain +3, Rest ±0) |
+| **Ruhige Woche** | nichts erfüllt | alle +1 |
+
+- **Beziehungen** bleiben als wenige Paare je Team bestehen (höchstens vier): Freunde, Rivalen, Mentor und Schützling. Sie
+  wirken klein und dauerhaft (gemeinsam aufgestellt ±1 Moral je Spieltag) und einmalig stark, wenn einer verkauft wird.
+- **KI:** Nachschlagetabelle je Ereignis aus der Team-Matrix (Harmonie, Ehrgeiz) und der Tabellenlage, deterministisch.
+  Delegierte Teams (Bereich „Woche“) bekommen die KI-Antwort; ein Spieltag wartet nicht.
+- **Mehrspieler:** Kabinen-Ereignisse sind privat; die Mitspieler sehen nur die öffentliche Folge (z. B. Wechselwunsch).
+
+### (c) Moral-Gegenstände
+
+Im selben Lager wie die Ausrüstung, von Händlern (eigener Händlertyp „Wirtin“), aus Kisten oder als Aktionskarte:
+
+| Gegenstand | Art | Wirkung (Startwert) |
+|---|---|---|
+| Teamabend | Verbrauch | alle +6 Moral, einmal |
+| Mannschaftsfahrt | Verbrauch, nur Winterpause | alle +10, ein offener Streit endet |
+| Friedenspfeife | Verbrauch | beendet eine Rivalität zwischen zwei Spielern |
+| Glücksbringer | Ausrüstung (Körper) | Moral des Trägers fällt nicht unter 40 |
+| Kapitänsbinde | Ausrüstung (Körper), nur Captain | bei Sieg +2 Moral für alle Aufgestellten |
+| Tagebuch | Ausrüstung (Kopf) | Rückkehr zur Mitte doppelt so schnell (dämpft beide Richtungen) |
+
+Sie belegen dieselben Plätze wie andere Ausrüstung: wer den Glücksbringer trägt, verzichtet auf ein Attribut-Teil.
+
+### (d) Anzeige
+
+- **Kabine** als Ansicht unter Kader: je Spieler Gesicht in Farbe plus Zahl (wie `BcMoralGesicht`, kein Herz, kein Emoji),
+  Verlauf der letzten acht Spieltage, Grund in einem Satz, Wirkung in Prozent; sortierbar.
+- **Kabinen-Stimmung** je Team als eine Zahl mit Zerlegung; auf Startseite und in der Woche als Zeile.
+- Offenes Ereignis mit den beiden Beteiligten und den Antworten; Liste der Beziehungen.
+- Im Spielerprofil der Moralverlauf über die Saison (der Form-Verlauf liegt schon in `playerFormState[].verlauf`; die
+  Moral bekommt dasselbe Feld).
+
+### Wirkung, KI, Last, Aufwand
+
+- **Wechselwirkung:** Rotation bekommt einen zweiten Preis neben der Erschöpfung (Bank kostet Moral); Verkäufe und
+  Verlängerungen wirken in die Kabine; Kaderbreite 14 heißt mehr Bankspieler und damit mehr Moral-Arbeit. Fans und der
+  Traditionalist im Vorstand lesen die Stimmung. Verbindet Kader, Spieltag und Verein.
+- **KI:** stellt wie heute auf; die Bank-Abzüge gelten für sie genauso. Zusätzlich eine Regel in der Aufstellung: ein
+  Spieler unter 35 Moral bekommt Vorrang, wenn sein Platzwert höchstens 3 % schlechter ist. Antworten per Tabelle,
+  Moral-Gegenstände nutzt sie, wenn die Stimmung unter 45 fällt.
+- **Last:** je Spieler ein Verlauf von 20 Werten je Saison, je Team höchstens vier Paare und vier Ereignisse: rund 12 KB
+  je Saison. Kein Rechenweg je Spieltag außer der Fortschreibung, die es schon gibt.
+- **Aufwand:** Dosis und Raten S (Schalter und Stempel im Spielstand nach dem Muster `OLY_FORM_MORAL`, damit eine laufende
+  Saison nicht mitten im Lauf umspringt), Messung S, Ereignisse und Beziehungen M, Gegenstände S nach der Ausrüstung,
+  Ansicht M. **Welle 2** (Dosis, Raten, Ansicht, Ereignisse), Gegenstände mit Welle 3.
+- **Abnahme:** Zielbild aus (a); die Mechanik ohne On-top bleibt unverändert (Fingerabdruck); Vergleich der Endtabellen mit
+  alter und neuer Dosis: höchstens zwei Plätze Verschiebung im Mittel; kein Team sinkt allein durch Kabinen-Ereignisse um
+  mehr als einen Platz.
+
+## 24. Nachträge
+
+- Die Übersicht `?ansicht=rahmen` führt jetzt B15 (Potential, das wandert), B16 (Zuruf im Spiel), B17 (Regel-Abstimmung
+  auf Zeit) und B18 (Kabine und Moral); „Spielweisen“ ist kein eigener Baustein mehr.
+- In `?ansicht=welt` ist der Satz zum Formatwechsel je Saison gestrichen; Formate ändern sich nur per befristeter
+  Regel-Abstimmung.
+- Die Klicks (Karte, Antwort auf Lage und Kabine, Lager, Haltung, Fund) und die laufende Kisten-Animation sind in
+  Chromium geprüft: die drei Takte folgen bei 0 / 1,2 / 2,0 Sekunden, die Karten sind danach sichtbar, „nochmal öffnen“
+  startet neu. Dabei gefunden und behoben: Karten in der neuen Woche und die Haltungs-Knöpfe reagierten nicht auf Klicks.
+- **Kadergröße:** die Obergrenze bleibt bei 14 (Chris). Dass die KI tiefer kauft, baut ein anderer Agent.
